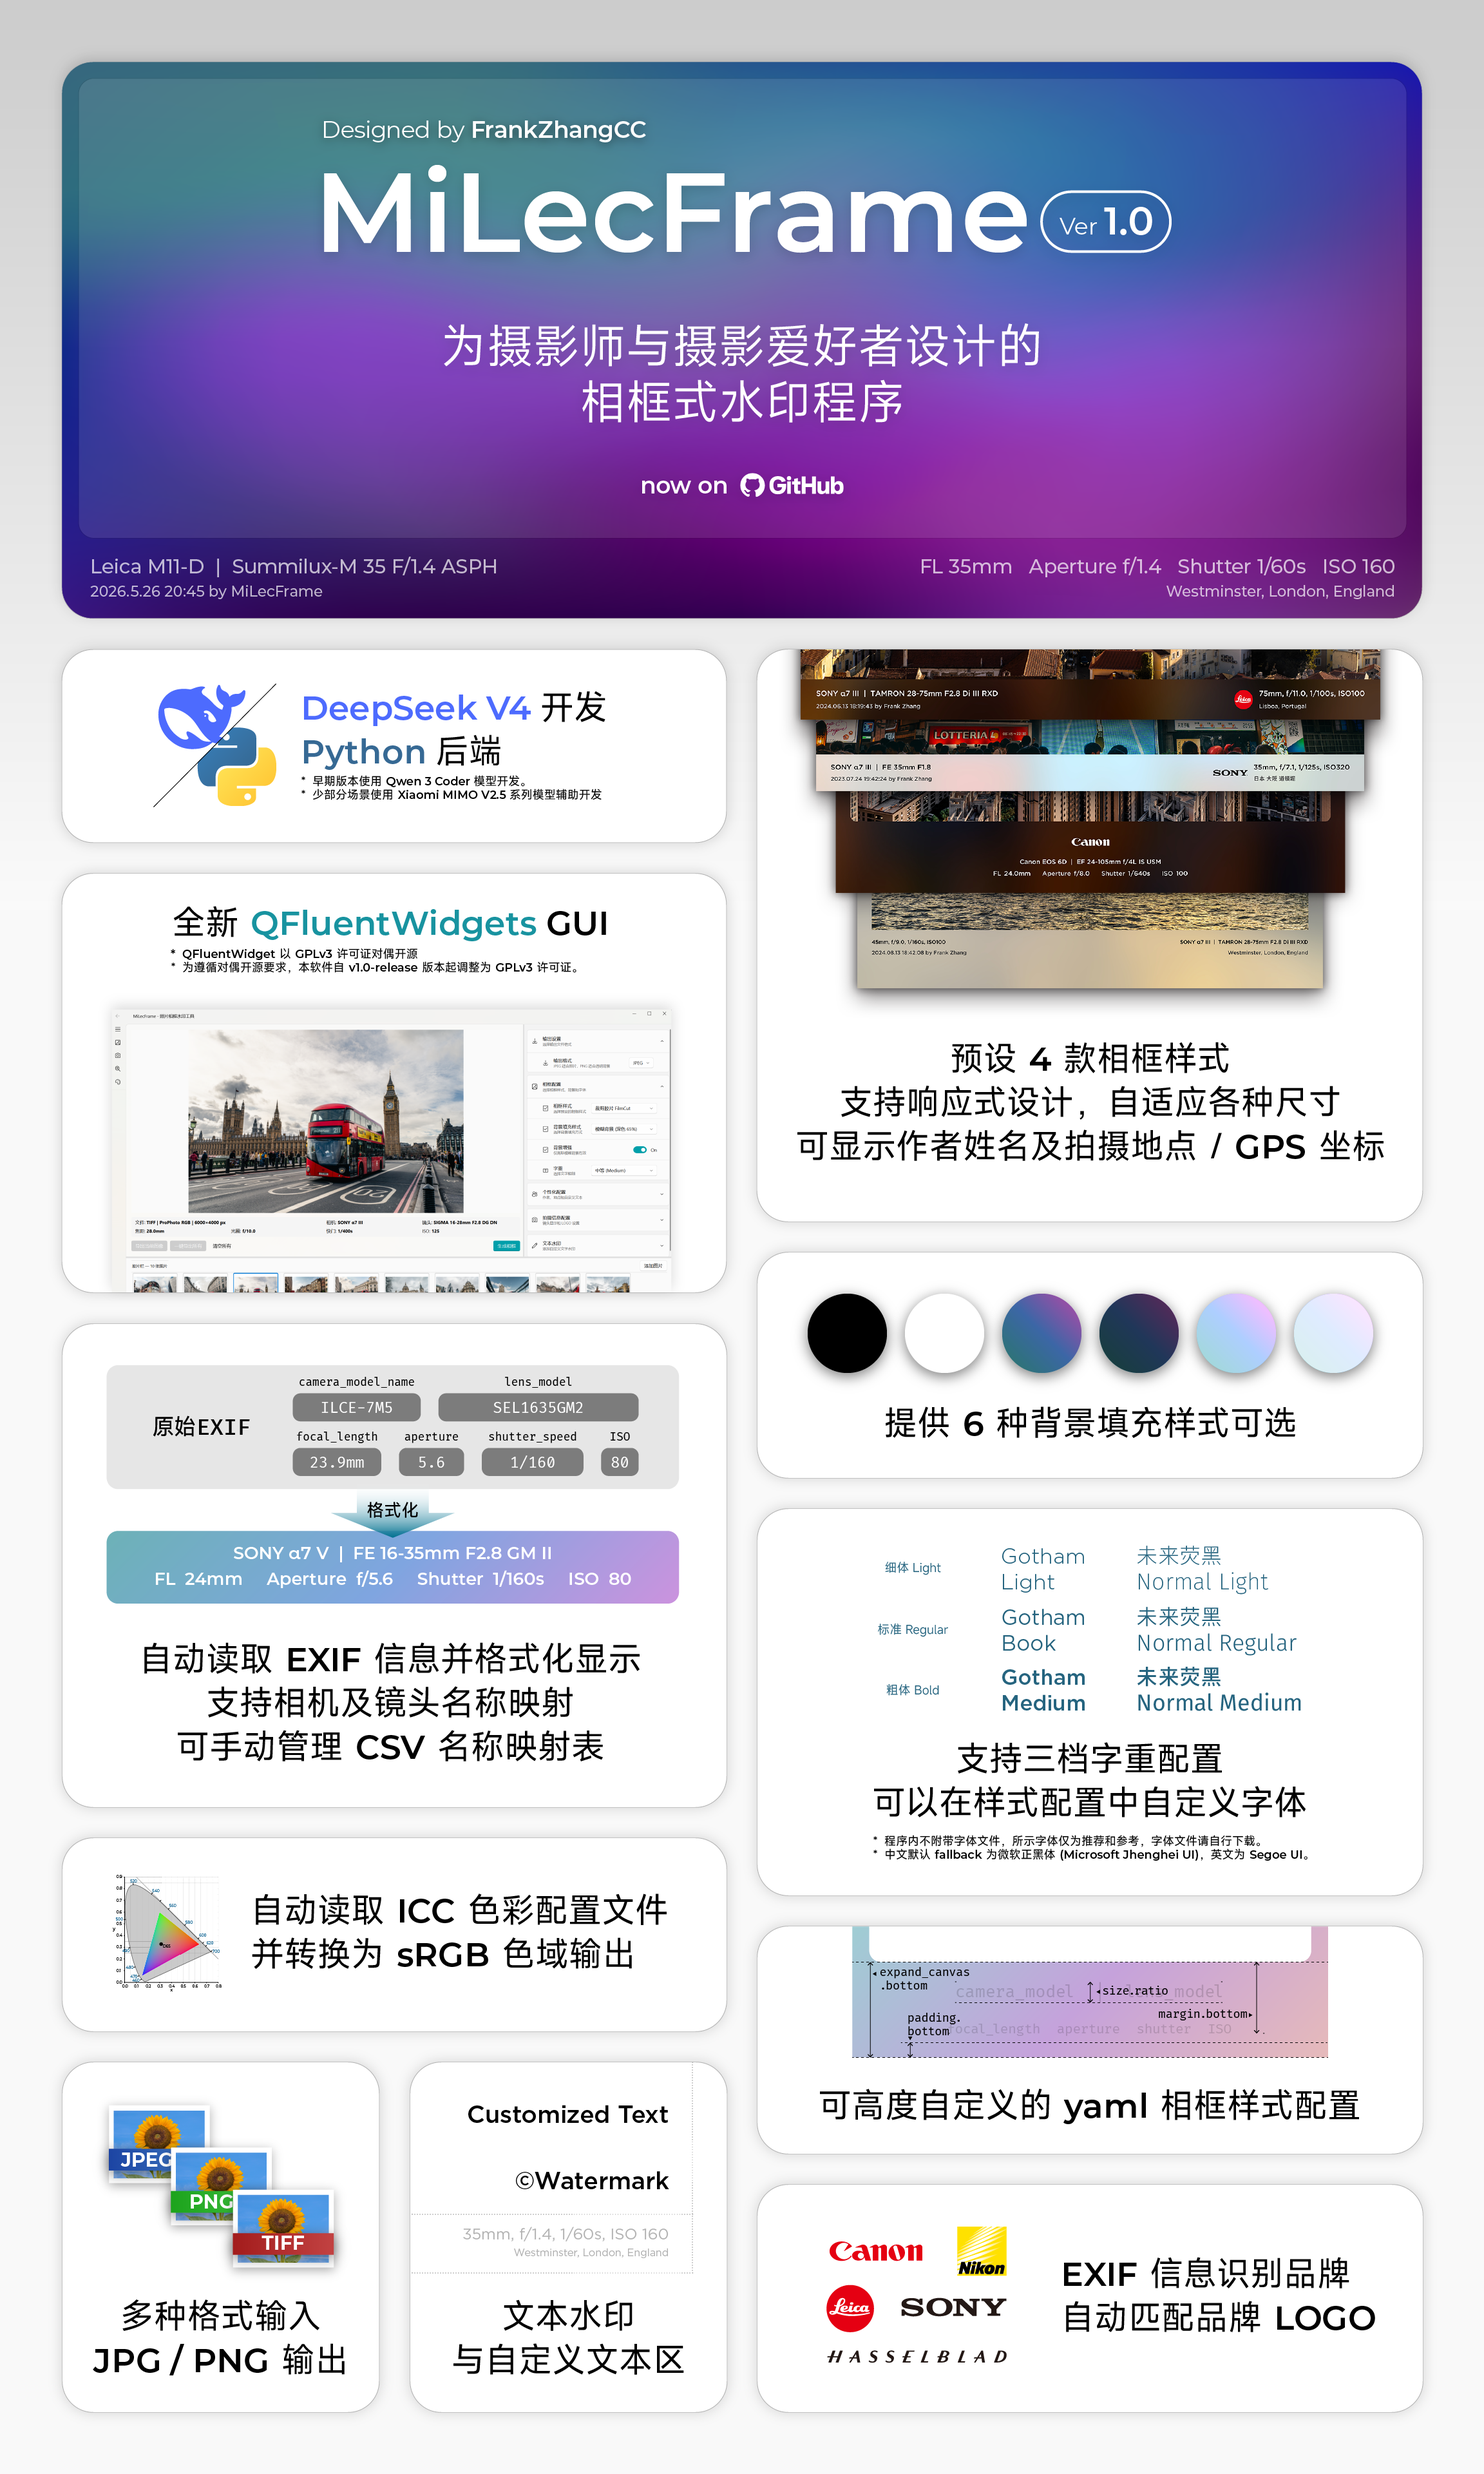
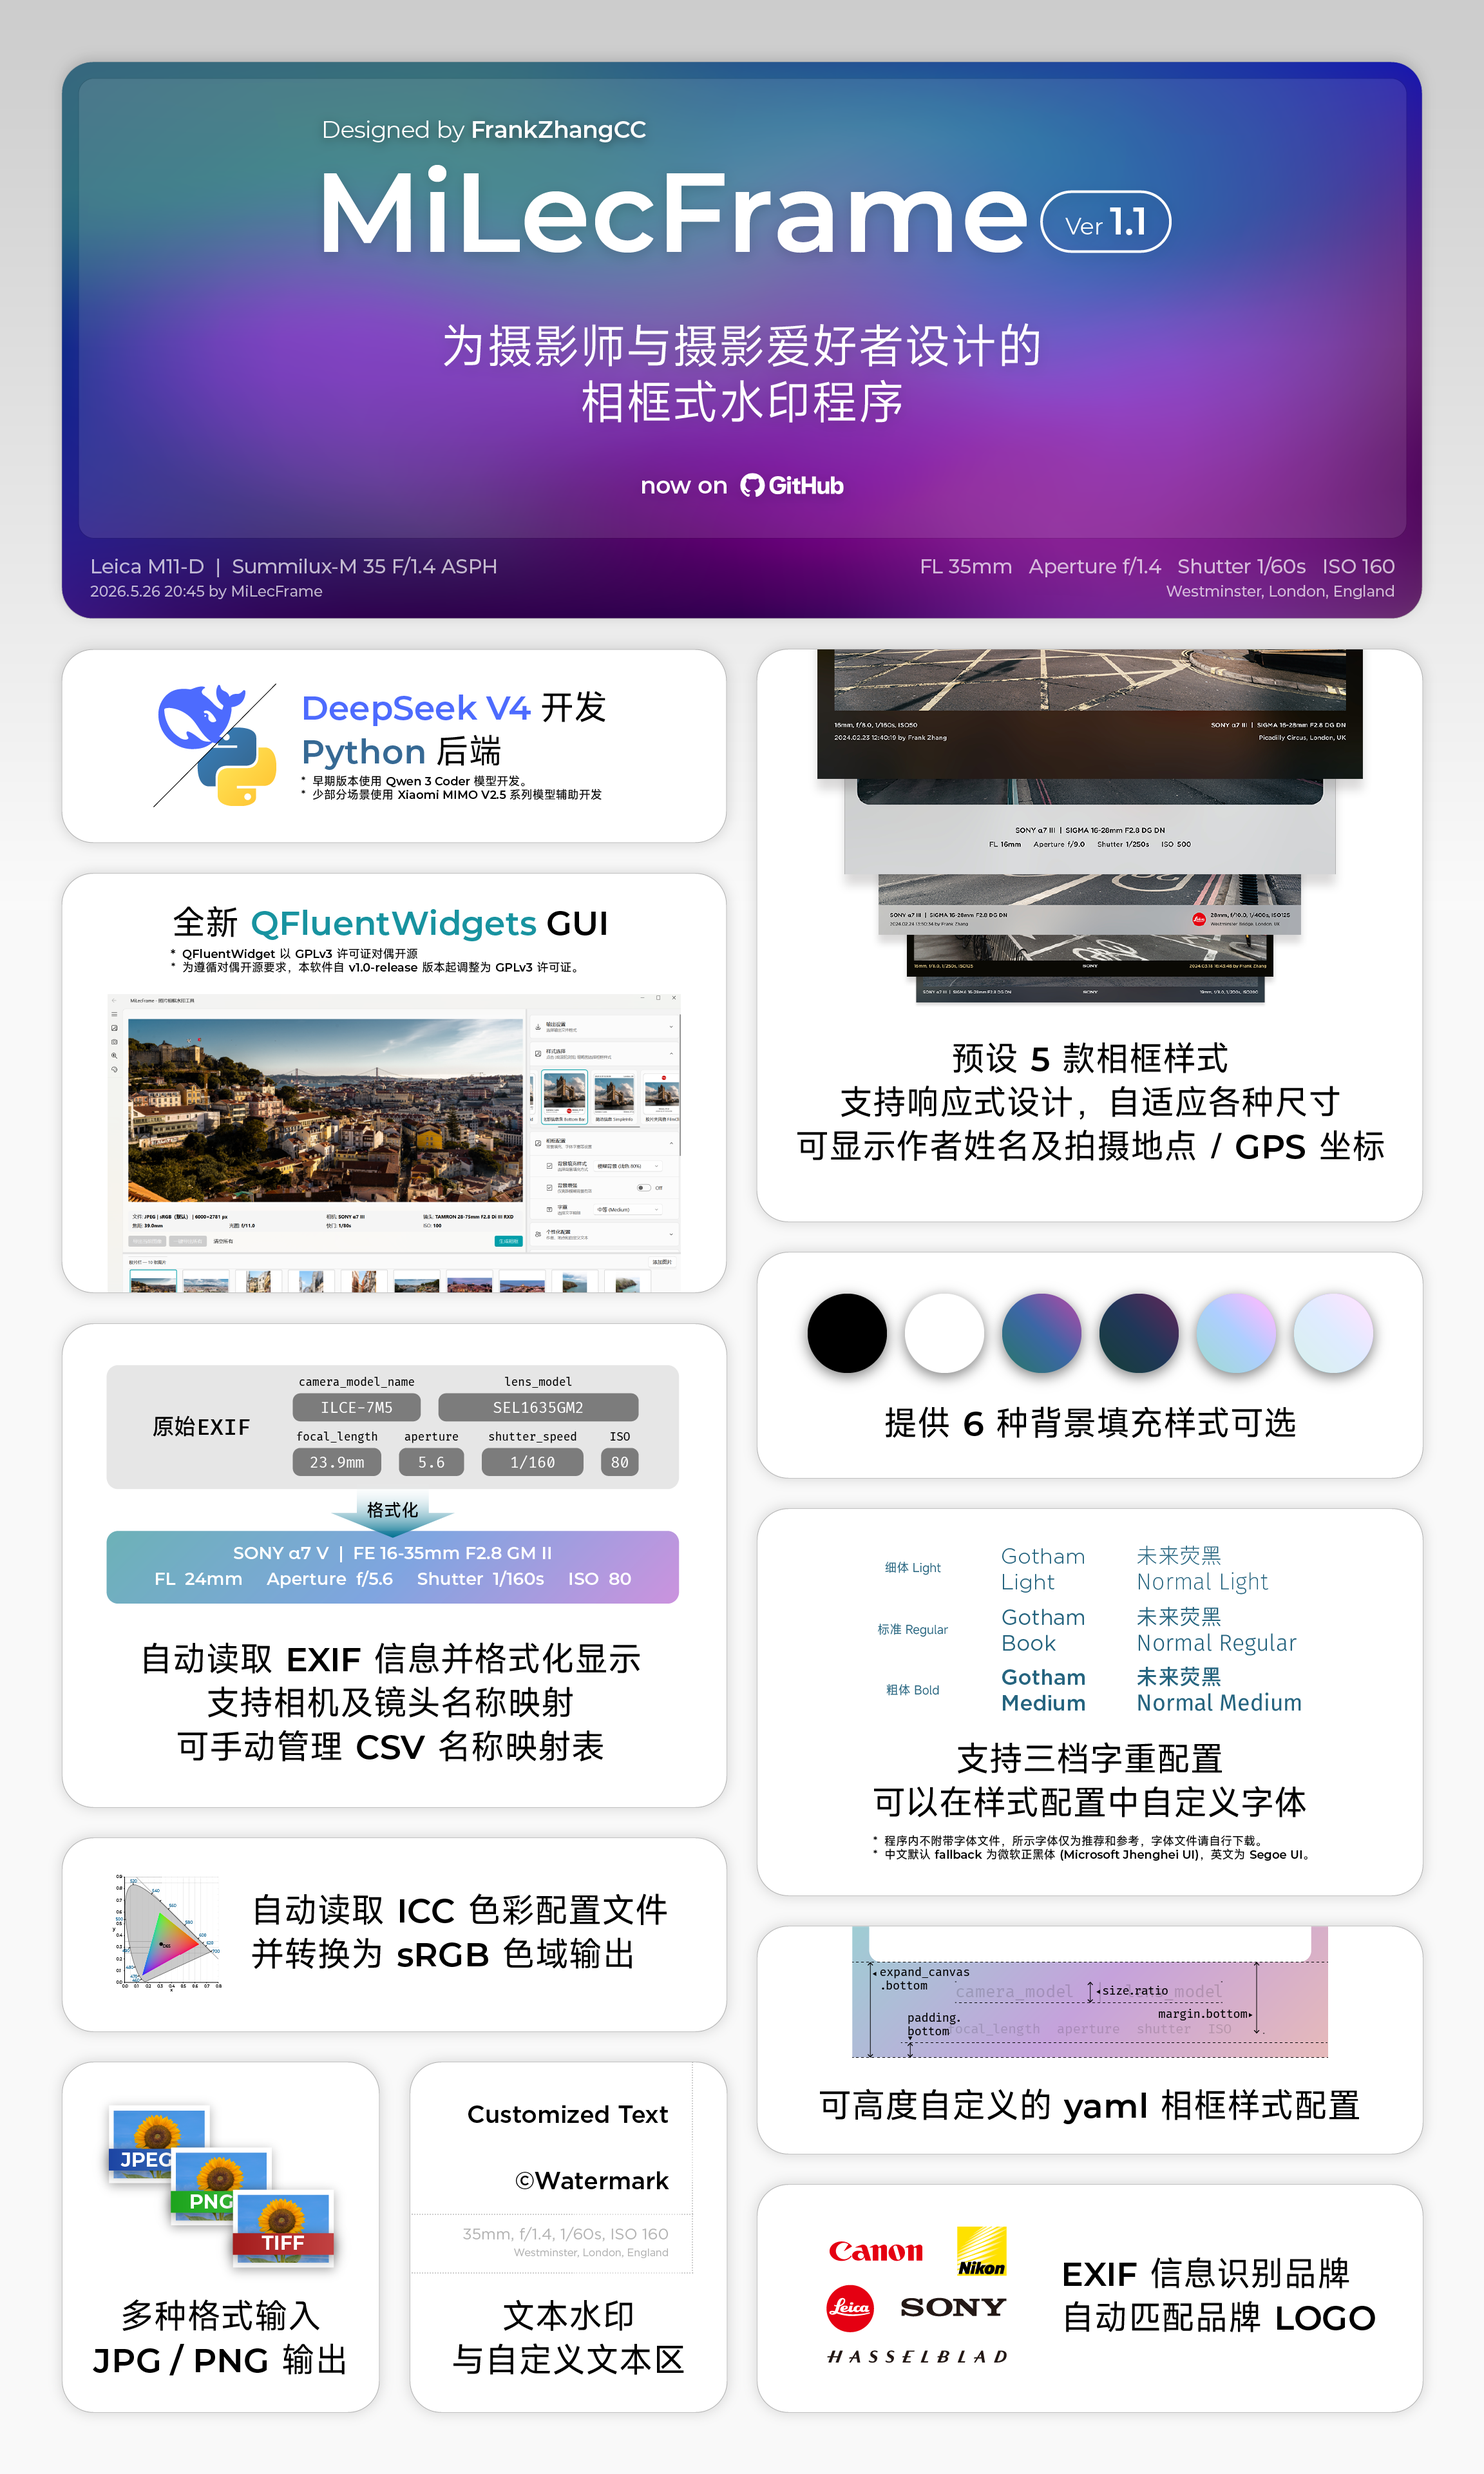
v1.1.0-release: 缩略图样式选择器 + 自定义背景色 + 色彩管理 + 深色模式 + 拖放加载

Changed region(s): [[0.5312, 0.25, 0.9375, 0.4375], [0.0625, 0.4062, 0.4688, 0.5312], [0.75, 0.0625, 0.7812, 0.0938]]

diff --git a/src/_version.py b/src/_version.py
@@ -8,5 +8,5 @@ MiLeica Frame - 版本号单点入口
   - 公开 Release 版：v0.x.x（如 v0.1.0）
   - 内部开发版：    v1.x.x-dev（如 v1.9.0-dev）
 """
-__version__ = "2.2.0-dev"
-__version_info__ = (2, 2, 0, 'dev')
+__version__ = "1.1.0"
+__version_info__ = (1, 1, 0, 'release')

diff --git a/CHANGELOG_RELEASE.md b/CHANGELOG_RELEASE.md
@@ -4,6 +4,38 @@
 
 ---
 
+## v1.1.0-release (2026-06-19)
+
+样式选择器升级为缩略图滚动浏览，样式配置支持自定义背景色，GUI 适配深色模式。
+
+### 样式选择器重构
+
+- 相框样式从文字下拉列表改为**横向缩略图滚动条**，直观预览每种样式的效果
+- 每种样式放置一张 512×512 预览图（`thumbnail.png`）即可在样式选择器中显示
+- 未放置缩略图的样式以灰色占位文字展示，不影响使用
+- 支持滚轮横向浏览，点击缩略图切换样式
+
+### 样式配置自定义背景色
+
+- 样式 YAML 新增 `custom_bg_color` 字段，可指定任意十六进制颜色（如 `"#28180B"`）或 RGB 数组
+- 可选声明 `custom_bg_text_scheme`（`dark`/`light`）控制文字颜色，未声明时自动根据背景亮度判定
+- 指定自定义背景色后，GUI 的背景填充下拉框自动禁用，保证样式的完整性
+
+### 色彩管理与深色模式适配
+
+- 修复广色域显示器（如 Display P3）上图片过饱和的问题，Qt 6 色域转换确保色彩准确
+
+### 交互改进
+
+- **拖放加载图片**：直接将图片文件拖入页面即可加载到胶片栏，无需点击添加按钮
+- **Delete 键移除**：选中胶片栏图片后按 Delete 键快速移除（文本输入框中不会误触发）
+
+### 样式配置文件夹组织
+
+- 所有样式配置文件迁移至独立文件夹，方便存放缩略图和附属资源
+
+---
+
 ## v1.0.0-release (2026-06-09)
 
 首个正式版，带来全新的原生桌面体验。

diff --git a/README.md b/README.md
@@ -1,6 +1,6 @@
 ![Features_introduction](docs/v1.0_features_vertical.png)
 
-# MiLecFrame - 照片相框水印工具 ![Version](https://img.shields.io/badge/version-2.2.0--dev-blue)
+# MiLecFrame - 照片相框水印工具 ![Version](https://img.shields.io/badge/version-1.1.0--release-blue)
 
 > ©FrankZhangCC 2026
 > 本程序基于 GPLv3 许可证发布，详见 [LICENSE](./LICENSE) 文件。
